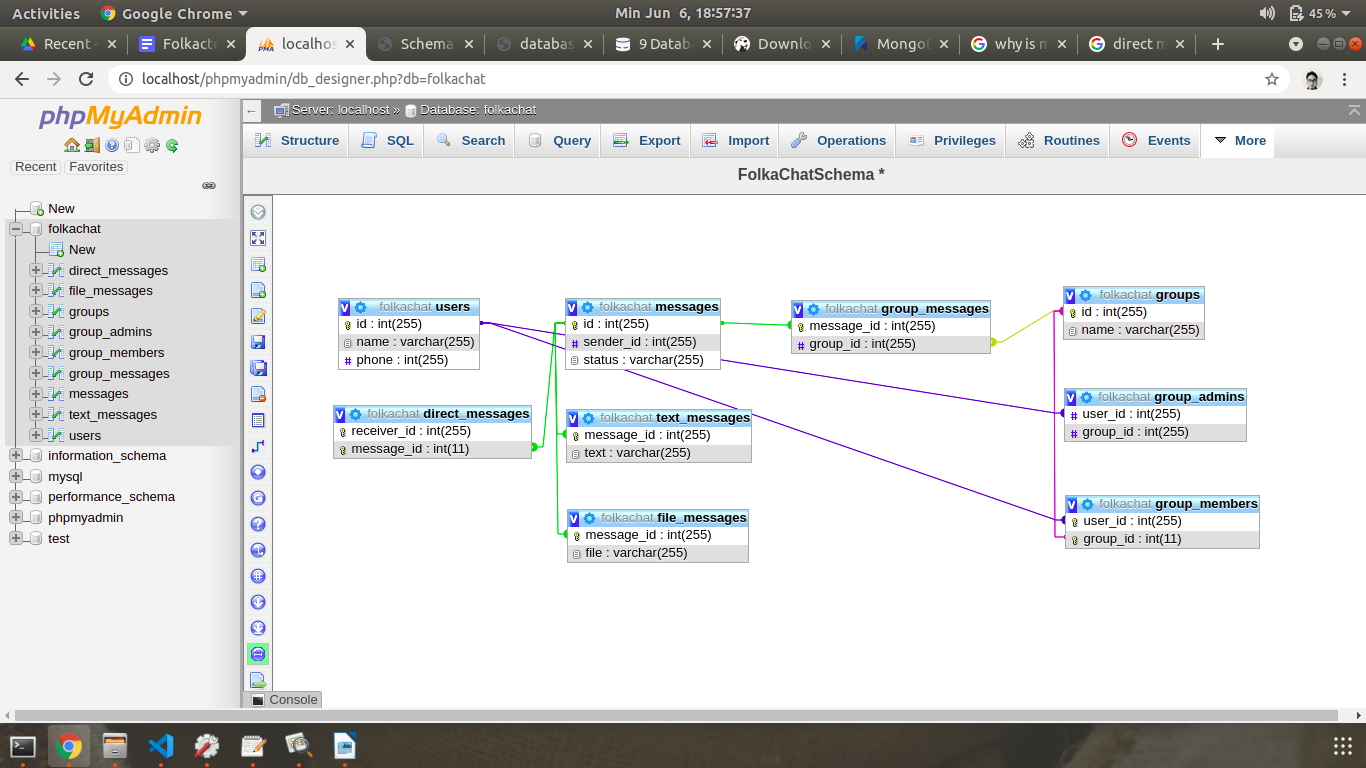
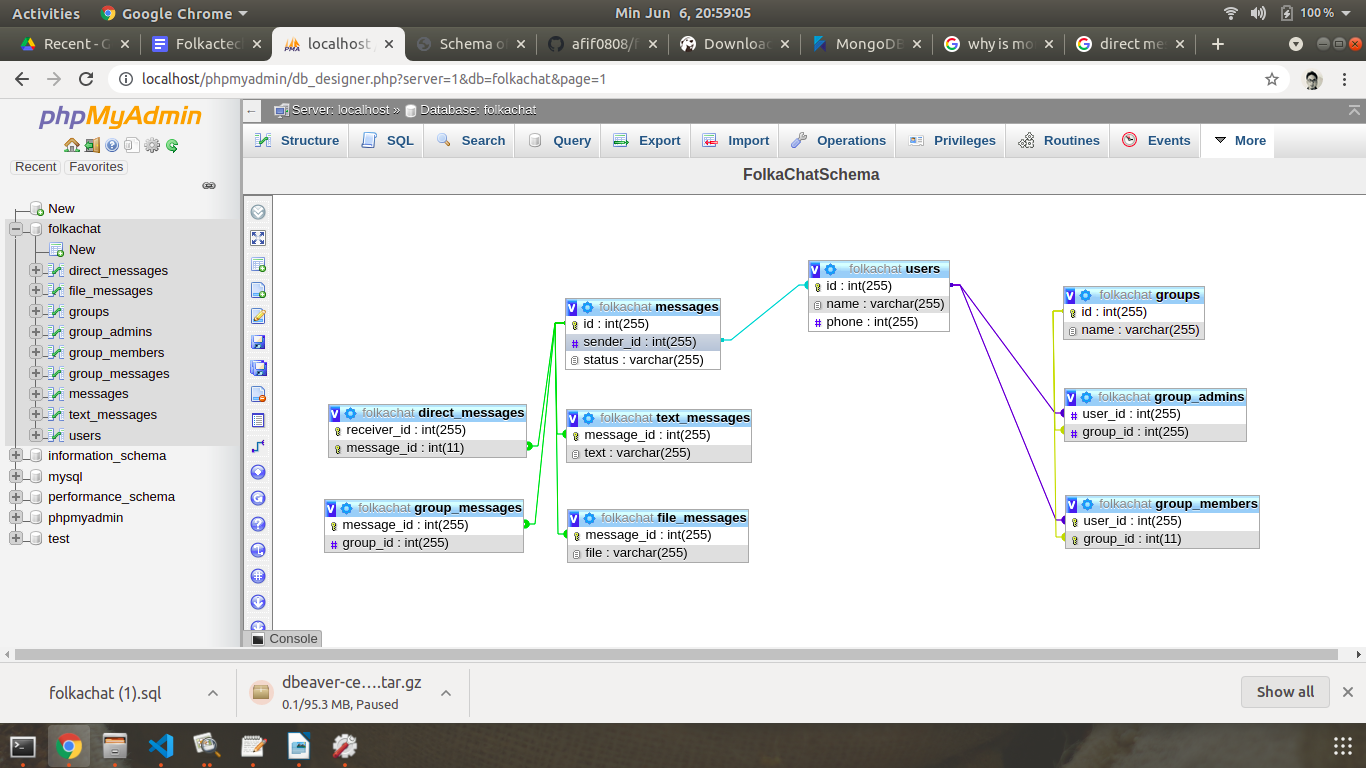
update README.md

diff --git a/README.md b/README.md
@@ -14,12 +14,23 @@ jika ada waktu saya insya allah bisa merapikan kodenya menjadi lebih baik.
 
 Untuk test yang ini, saya memilih NoSQL yaitu MongoDB. Alasanya ialah karena berdasarkan dari apa yang saya baca , MongoDB lebih cepat dari MySQL, namun saya belum mengerti semua alasanya , tapi untuk kebutuhan yang ini menurut saya MongoDB adalah pilihan yang sesuai.
 
-<h3>Hubungan antar entity</h3>
-
 Dengan SQL saya mendesain chat messaging app seperti ini 
 
-<img src="chat_sql_schema.png" />
+<img src="chat_sql_schema2.png" />
 
+Saya mengaplikasian one-to-one relationship untuk table message dan many-to-many relationship untuk group. Table messages hanya berisi message.id , message.receiver_id( user_id ) dan message.status( pending/sent/read ) , tidak termasuk field untuk isi dari pesan dan penerimanya.
 
+Untuk penerima , saya membuat dua table terpisah yaitu direct message dan group message yang mana masing-masing berhubungan secara one-to-one dengan table message. Alasanya saya menerapkanya ialah agar , jika nanti kedua jenis pesan membutuhkan field tambahan kita tidak perlu menyentuh table message lagi atau jika nantinya ada jenis pesan baru berdasarkan penerimanya. Begitu pun , untuk isi pesan , saya membuat dua table yaitu text message dan file message.
 
+Untuk member dan admin group, di aplikasikan many-to-many relationship. Ada dua junction table (table yang menghubungkan dua table) yaitu group_admins dan group_members yang masing-masing menghubungkan user dan group.
+
+MongoDB memungkinkan kita untuk mengaplikasikan hal serupa tanpa membuat banyak table , karena MongoDB merupakan unstructured database , setiap baris bisa memiliki jumlah dan jenis2 field yang berbeda dalam sebuah collection dan many-to-many relationship bisa digantikan dengna embedded relationship dimana setiap id atau bahkan keseluruhan baris di dalam array.
+
+Dengan begitu , kita tidak perlu melakukan banyak query untuk setiap pengembilan data. 
+
+<h2>MongoDB Schema</h2>
+
+<img src="chat_mongo_schema.png" />
+
+Maaf untuk skema mongodb , saya menggunakan file JSON karena keterbatasan tool dan waktu . Semoga jelas.
 
